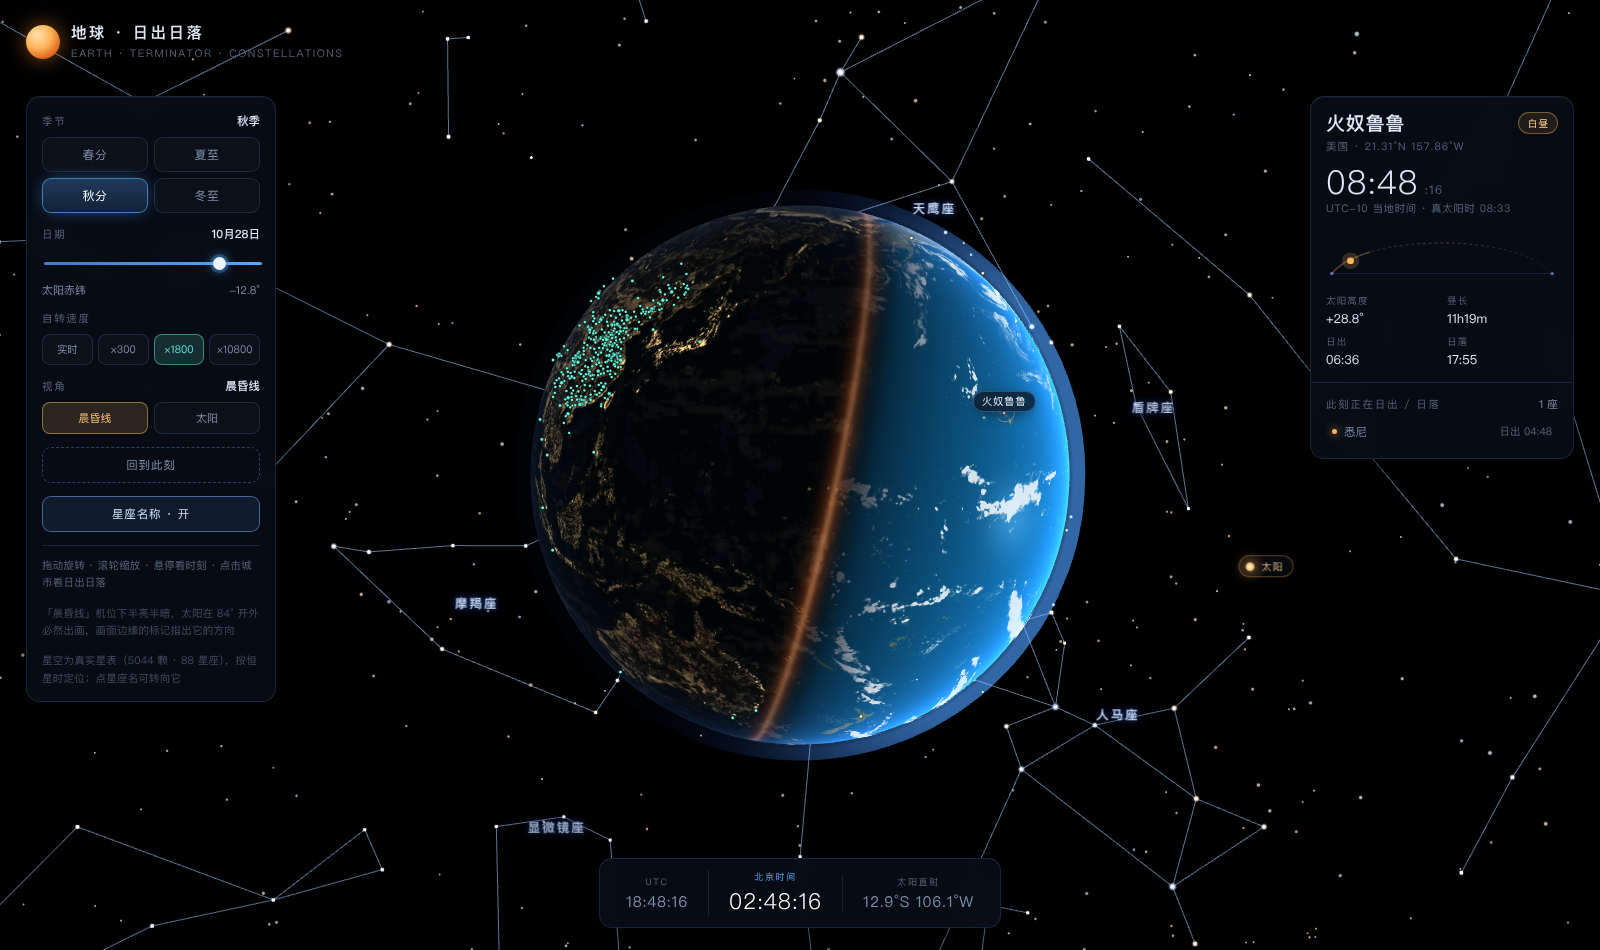
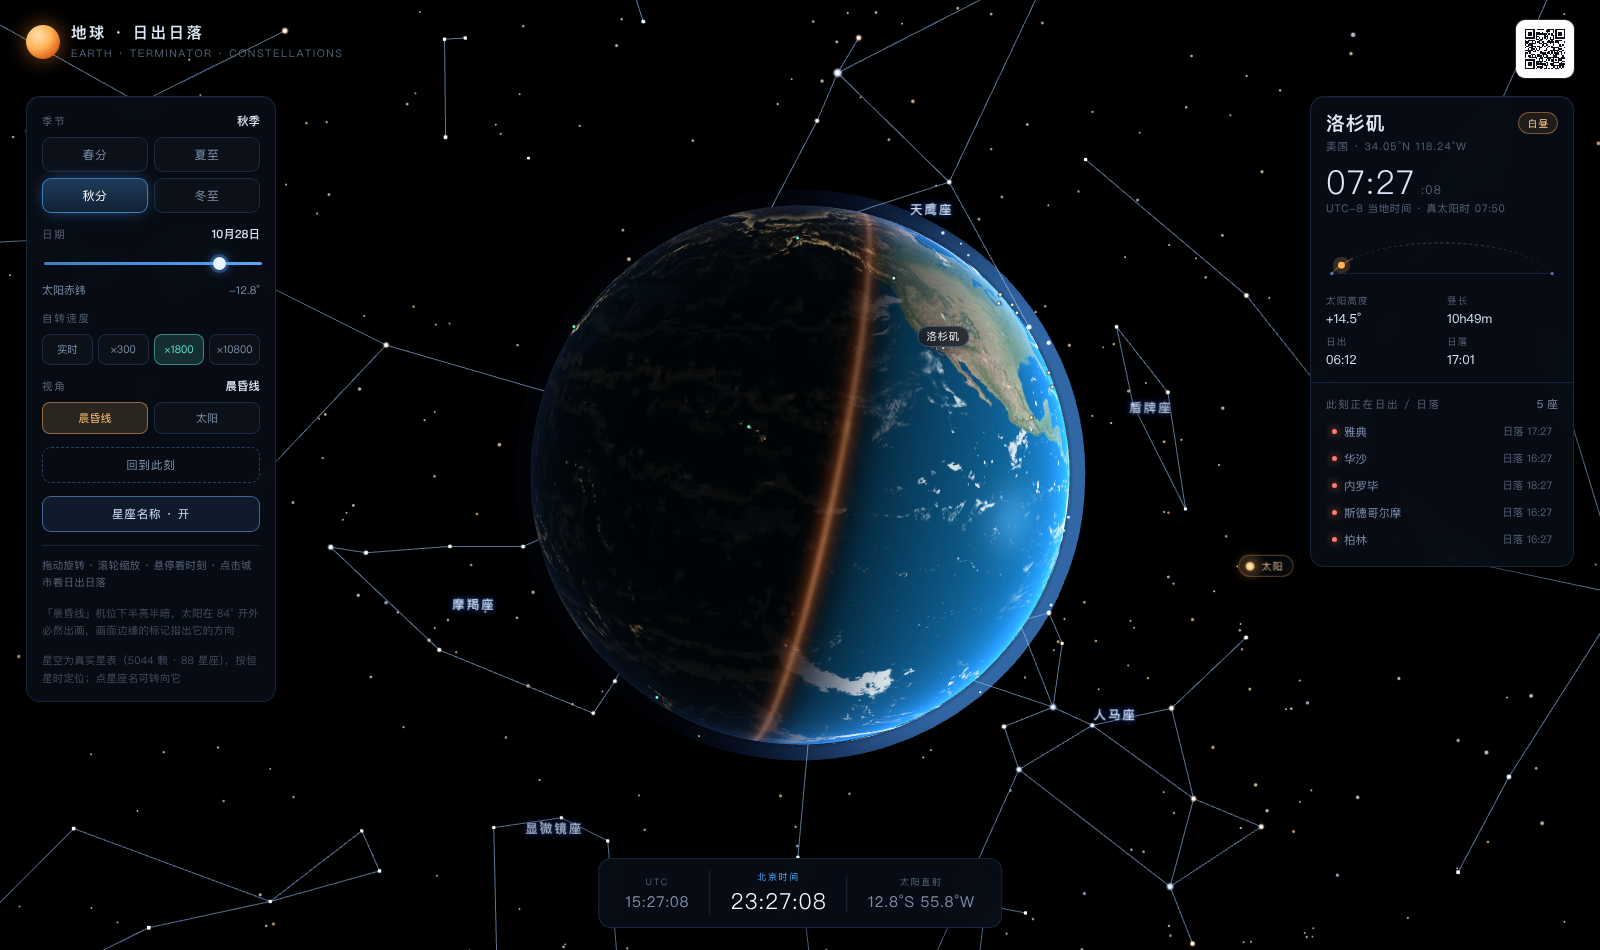
feat: 右上角开源仓库二维码 + GIF 录制工具
- 页面右上角常驻矢量二维码（29×29 模块，3 KB，扫码直达仓库）；
  手机端为它让出 12px：右侧面板顶距 56 → 68px
- main.js 暴露 selectCity，供录制/演示脚本程序化选城
- tools/record.py：CDP screencast 推帧 + Pillow 全局调色板合成 GIF
  逐帧 captureScreenshot 在 swiftshader 下只有 3 fps（每帧强制同步渲染
  275ms），改成 screencast 后达到 12 fps
- cdpshot.py 新增 start_screencast / pump_frames（带回 ack 与时间戳）
- 新增 preview-mobile.gif：珠海 · ×1800 · 晨昏线，7 秒走完 3.5 小时
- 三张静态预览同步重拍（含二维码）

diff --git a/src/styles/panels.css b/src/styles/panels.css
@@ -33,6 +33,26 @@
 .brand h1 { margin: 0; font-size: 15.5px; font-weight: 600; letter-spacing: .16em; }
 .brand p { margin: 3px 0 0; font-size: 10.5px; color: var(--dim2); letter-spacing: .14em; text-transform: uppercase; }
 
+/* ---------- 右上角：开源仓库二维码 ---------- */
+.repoqr {
+  position: absolute;
+  top: 20px;
+  right: 26px;
+  width: 58px;
+  height: 58px;
+  padding: 5px;
+  border-radius: 9px;
+  background: #fff;
+  z-index: 6;
+  box-shadow: 0 10px 26px -12px rgba(0, 0, 0, .85), 0 0 0 1px rgba(255, 255, 255, .16);
+  transition: transform .18s ease, box-shadow .18s ease;
+}
+.repoqr img { display: block; width: 100%; height: 100%; }
+.repoqr:hover {
+  transform: translateY(-1px) scale(1.04);
+  box-shadow: 0 16px 32px -12px rgba(0, 0, 0, .9), 0 0 0 1px rgba(255, 255, 255, .3);
+}
+
 /* ---------- 左侧面板 ---------- */
 .left {
   top: 96px;
@@ -377,7 +397,9 @@ input[type=range]::-moz-range-thumb {
   .brand .mark { width: 26px; height: 26px; }
   .brand h1 { font-size: 13px; letter-spacing: .12em; }
 
-  .right { top: 56px; left: 12px; right: 12px; width: auto; border-radius: 12px; }
+  .repoqr { top: 8px; right: 12px; width: 54px; height: 54px; padding: 4px; border-radius: 8px; }
+
+  .right { top: 68px; left: 12px; right: 12px; width: auto; border-radius: 12px; }
   .right .listwrap { display: none; }
   .card { padding: 10px 13px 11px; border-bottom: none; }
   .card .name { font-size: 16px; }

diff --git a/index.html b/index.html
@@ -21,6 +21,13 @@
     </div>
   </header>
 
+  <!-- 右上角：开源仓库二维码（矢量内联，扫码直达 GitHub） -->
+  <a class="repoqr" href="https://github.com/momotity/Earthlight"
+     target="_blank" rel="noopener noreferrer"
+     title="开源地址 · github.com/momotity/Earthlight">
+    <img src="./src/assets/qr-github.svg" alt="GitHub 仓库二维码" width="58" height="58">
+  </a>
+
   <section class="panel left">
     <div class="grp">
       <div class="lbl">季节 <b id="seasonName">春分</b></div>

diff --git a/src/main.js b/src/main.js
@@ -393,6 +393,8 @@ window.__app = {
   getInsets: () => ({ ...insets }),
   /** 切换机位：'terminator' 晨昏线 / 'sun' 太阳 */
   applyView,
+  /** 选中某座城市（按索引，传 -1 取消）：录制/演示用 */
+  selectCity,
   /** 切到某一天（含相机俯仰修正），控制台调参/截图用 */
   setDay: (doy) => {
     state.doy = doy;

diff --git a/tools/record.py b/tools/record.py
@@ -1,0 +1,156 @@
+#!/usr/bin/env python3
+# -*- coding: utf-8 -*-
+"""
+录一段页面动画为 GIF。
+
+为什么不用「逐帧 captureScreenshot」：在 swiftshader 软件渲染下，
+每次截图都要强制同步渲染一遍，实测 390×844 下每帧 275 ms，
+叠加页面自身 9.8 fps，最终只有 3 fps。改用 CDP 的 Page.startScreencast
+（合成器推帧 + 逐帧 ack），能拿到接近页面真实帧率的画面。
+
+用法：
+    python3 tools/record.py <url> <out.gif> [宽x高] [秒数] [最大宽度]
+
+例：
+    python3 tools/record.py "file://$PWD/dist/index.html" zhuhai.gif 390x844 7 390
+"""
+import io
+import os
+import sys
+import time
+
+sys.path.insert(0, os.path.dirname(os.path.abspath(__file__)))
+from cdpshot import launch, close_chrome  # noqa: E402
+
+from PIL import Image  # noqa: E402
+
+
+# 演示脚本：定位珠海 → ×1800 → 晨昏线 → 回到此刻
+SETUP = """
+(() => {
+  const A = window.__app;
+  A.selectCity(350);                       // 珠海
+  const sp = [...document.querySelectorAll('.speeds button')]
+    .find(b => b.dataset.spd === '1800');
+  if (sp) sp.click();                      // 自转 ×1800
+  const tv = document.querySelector('.views button[data-view="terminator"]');
+  if (tv) tv.click();                      // 晨昏线机位
+  document.getElementById('resetBtn').click();   // 回到此刻
+  return JSON.stringify({
+    city: A.state.selected,
+    name: document.getElementById('cName').textContent,
+    speed: A.state.speed,
+    view: (document.querySelector('.views button.on') || {}).dataset?.view,
+    now: new Date(A.state.simTime).toISOString()
+  });
+})()
+"""
+
+READY = "!!(window.__app && window.__app.selectCity)"
+
+
+def wait_ready(c, timeout=30):
+    t0 = time.time()
+    while time.time() - t0 < timeout:
+        try:
+            if c.eval(READY):
+                return True
+        except Exception:
+            pass
+        time.sleep(0.25)
+    return False
+
+
+def record(url, size=(390, 844), seconds=7.0, settle=2.6):
+    p, c = launch(size, 1)
+    try:
+        c.call("Page.enable")
+        c.call("Runtime.enable")
+        c.call("Emulation.setDeviceMetricsOverride",
+               {"width": size[0], "height": size[1],
+                "deviceScaleFactor": 1, "mobile": False})
+        c.call("Page.navigate", {"url": url})
+
+        if not wait_ready(c):
+            raise RuntimeError("页面 30s 内未就绪，检查 __app 是否挂载")
+
+        time.sleep(2.0)
+        print("setup ->", c.eval(SETUP))
+        time.sleep(settle)          # 等镜头缓动 + 阻尼收敛
+
+        errs = c.eval("JSON.stringify(window.__errs || [])")
+        if errs and errs != "[]":
+            print("⚠ 页面报错:", errs)
+
+        c.start_screencast(size[0], size[1], fmt="png")
+        frames = c.pump_frames(duration=seconds)
+    finally:
+        close_chrome(p, c.profile_dir)
+
+    print("采集 %d 帧，跨度 %.2fs" % (len(frames), frames[-1][0] - frames[0][0]))
+    return frames
+
+
+def dedupe(frames):
+    """相邻帧字节完全相同就合并（静态画面 screencast 会重复推）。"""
+    out = [list(frames[0])]
+    for stamp, data in frames[1:]:
+        if data == out[-1][1]:
+            continue
+        out.append([stamp, data])
+    print("去重后 %d 帧" % len(out))
+    return [(s, d) for s, d in out]
+
+
+def to_gif(frames, out, colors=256, width=None, min_delay=30, max_delay=400):
+    stamps = [s for s, _ in frames]
+    imgs = [Image.open(io.BytesIO(d)).convert("RGB") for _, d in frames]
+
+    if width and width < imgs[0].width:
+        h = round(imgs[0].height * width / imgs[0].width)
+        imgs = [im.resize((width, h), Image.LANCZOS) for im in imgs]
+
+    w, h = imgs[0].size
+    n = len(imgs)
+
+    # 每帧显示时长 = 到下一帧的真实时间差（尾帧沿用前一帧）
+    dur = [max(min_delay, min(max_delay, int(round((stamps[i + 1] - stamps[i]) * 1000))))
+           for i in range(n - 1)]
+    dur.append(dur[-1] if dur else 80)
+
+    # 全局调色板：拼成一屏长图后采样量化。逐帧各自 quantize 会让
+    # 深色渐变在帧间轻微变色，播放时是肉眼可见的闪烁。
+    sheet = Image.new("RGB", (w, h * n))
+    for i, im in enumerate(imgs):
+        sheet.paste(im, (0, i * h))
+    sample = sheet.resize((max(1, w // 3), max(1, (h * n) // 3)), Image.BILINEAR)
+    pal = sample.quantize(colors=colors, method=Image.MEDIANCUT)
+
+    pq = [im.quantize(palette=pal, dither=Image.FLOYDSTEINBERG) for im in imgs]
+
+    pq[0].save(out, save_all=True, append_images=pq[1:],
+               duration=dur, loop=0, optimize=True)
+
+    kb = os.path.getsize(out) / 1024
+    print("GIF -> %s  %dx%d  %d 帧  总时长 %.1fs  %.0f KB"
+          % (out, w, h, n, sum(dur) / 1000, kb))
+    return kb
+
+
+def main():
+    url = sys.argv[1] if len(sys.argv) > 1 else "about:blank"
+    out = sys.argv[2] if len(sys.argv) > 2 else "preview.gif"
+    size = (390, 844)
+    if len(sys.argv) > 3 and "x" in sys.argv[3]:
+        a, b = sys.argv[3].split("x")
+        size = (int(a), int(b))
+    seconds = float(sys.argv[4]) if len(sys.argv) > 4 else 7.0
+    width = int(sys.argv[5]) if len(sys.argv) > 5 else None
+
+    frames = record(url, size=size, seconds=seconds)
+    frames = dedupe(frames)
+    to_gif(frames, out, width=width)
+
+
+if __name__ == "__main__":
+    main()

diff --git a/tools/cdpshot.py b/tools/cdpshot.py
@@ -112,6 +112,54 @@ class CDP:
         r = self.call("Runtime.evaluate", {"expression": expr, "returnByValue": True, "awaitPromise": True})
         return r.get("result", {}).get("value")
 
+    # ---------- 事件流（录屏用）----------
+    def start_screencast(self, width, height, fmt="png", quality=92, every=1):
+        """开一路 screencast。它由合成器推帧，不像 captureScreenshot 那样
+        每次强制同步渲染 —— 后者在 swiftshader 下每帧要多花 ~275ms。"""
+        self.call("Page.startScreencast", {
+            "format": fmt, "quality": quality, "maxWidth": width,
+            "maxHeight": height, "everyNthFrame": every
+        })
+
+    def stop_screencast(self):
+        try:
+            self.call("Page.stopScreencast", {}, timeout=10)
+        except Exception:
+            pass
+
+    def pump_frames(self, want=9999, duration=None, idle_timeout=8.0, total_timeout=180.0):
+        """收帧，返回 [(timestamp, bytes), …]。
+
+        duration 给定时，按**首帧时间戳**起算，够了就停（比按墙钟稳，
+        因为 socket 收包有抖动）。每帧必须回 ack，否则 Chrome 只推一帧就停。
+        阻塞读是安全的：screencast 会持续推，真卡住就靠 socket 超时报错退出
+        （不要吞掉超时后继续读 —— 半帧会让后续解析错位）。"""
+        out = []
+        t0 = time.time()
+        t_first = None
+        self.ws.s.settimeout(idle_timeout)
+        try:
+            while len(out) < want:
+                if time.time() - t0 > total_timeout:
+                    break
+                msg = json.loads(self.ws.recv())
+                if msg.get("method") != "Page.screencastFrame":
+                    continue
+                p = msg["params"]
+                stamp = p["metadata"].get("timestamp", time.time())
+                if t_first is None:
+                    t_first = stamp
+                out.append((stamp, base64.b64decode(p["data"])))
+                self.ws.send({"id": -len(out) - 1000,
+                              "method": "Page.screencastFrameAck",
+                              "params": {"sessionId": p["sessionId"]}})
+                if duration and stamp - t_first >= duration:
+                    break
+        finally:
+            self.ws.s.settimeout(60)
+            self.stop_screencast()
+        return out
+
 
 def launch(size=(1600, 950), scale=1, port=9333):
     """启动一个 headless Chrome 并连上 CDP。返回 (进程, CDP 连接)。"""

diff --git a/README.md b/README.md
@@ -7,6 +7,11 @@
 
 ![预览](./preview-desktop.png)
 
+手机端演示 —— 定位珠海、自转 ×1800、晨昏线机位，7 秒走完 3.5 小时，
+能看到晨昏暖带扫过中国大陆（右上角是仓库二维码，扫码即达）：
+
+![手机端演示](./preview-mobile.gif)
+
 ---
 
 ## 快速开始
@@ -123,7 +128,9 @@ earth-sunrise/
 │  ├─ data/                    # 自动生成，勿手改
 │  │  ├─ cities.js
 │  │  └─ sky.js
-│  ├─ assets/textures/         # day / night / clouds（webp）
+│  ├─ assets/
+│  │  ├─ textures/             # day / night / clouds（webp）
+│  │  └─ qr-github.svg         # 右上角开源地址二维码（矢量，3 KB）
 │  └─ styles/                  # base / sky / panels
 ├─ tests/                      # node:test 单元测试（不需要构建、不需要浏览器）
 │  ├─ math.test.js
@@ -135,7 +142,8 @@ earth-sunrise/
    ├─ gen_cities.py            # 生成 src/data/cities.js
    ├─ gen_sky.py               # 生成 src/data/sky.js（从 raw/*.json）
    ├─ verify_sky.py            # 跨语言对账（Python 复算 vs 浏览器 DOM）
-   ├─ cdpshot.py               # headless Chrome + CDP 截图/取值
+   ├─ cdpshot.py               # headless Chrome + CDP 截图/取值/录屏
+   ├─ record.py                # 录 GIF（screencast 推帧 → Pillow 合成）
    └─ raw/                     # d3-celestial 原始星表与星座连线
 ```
 
